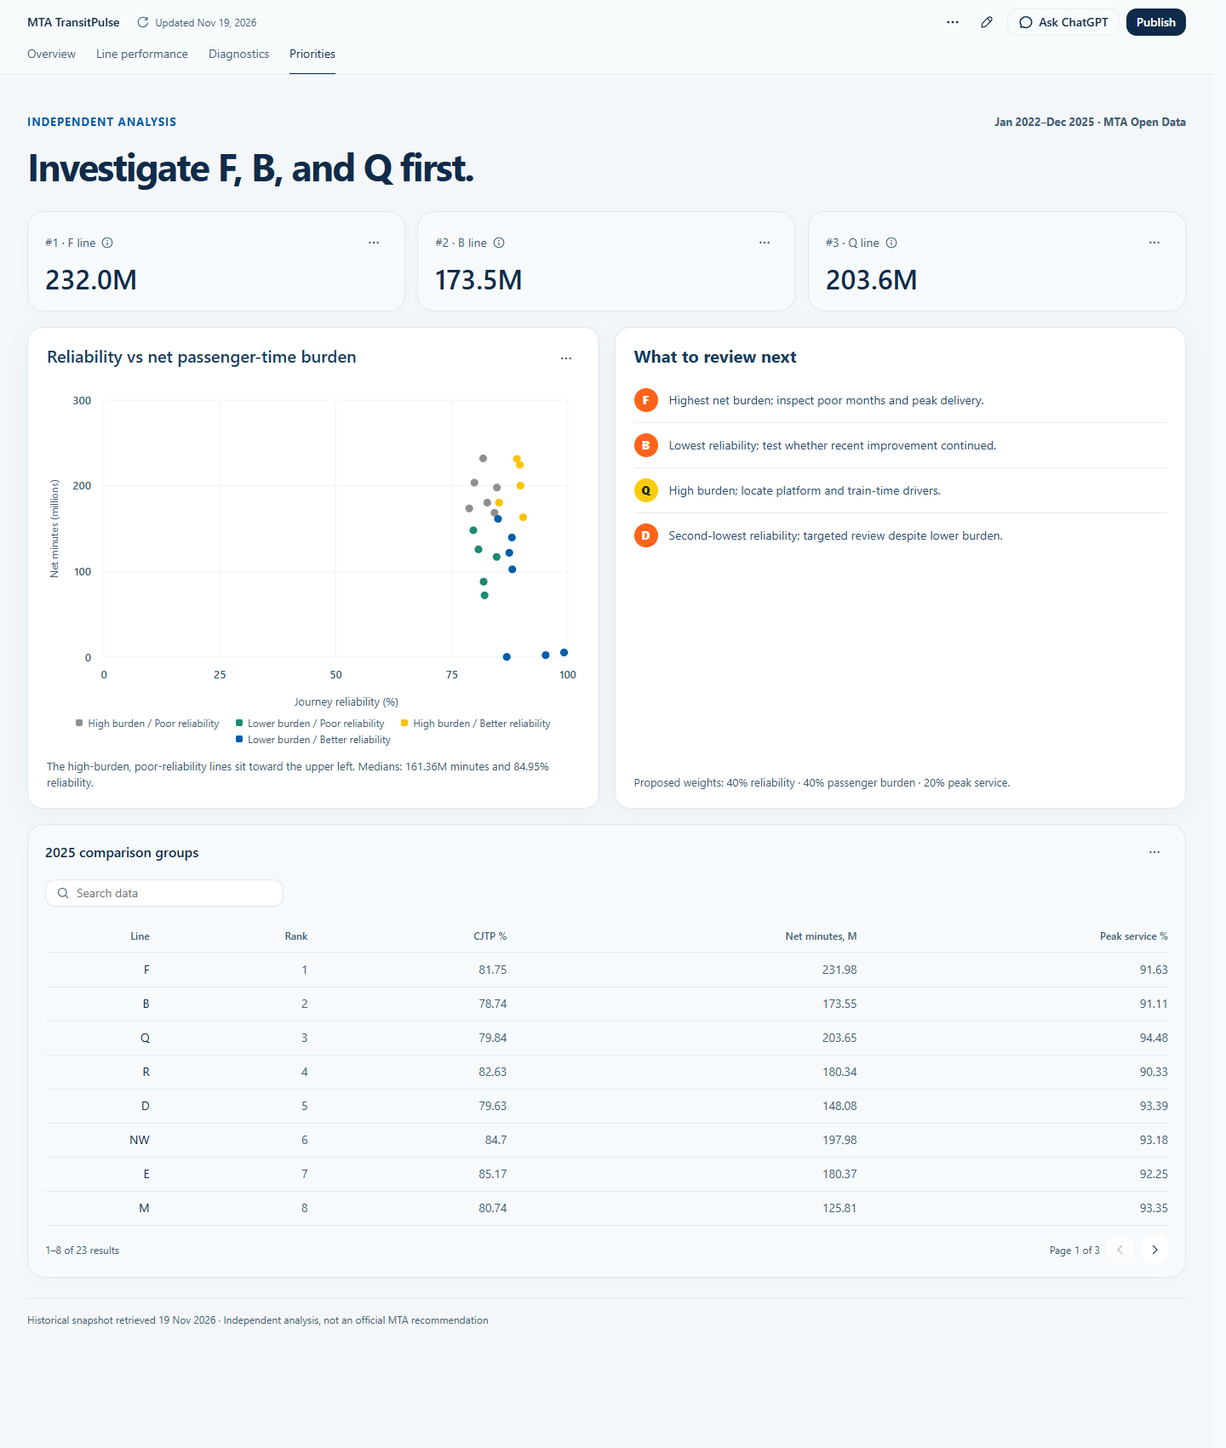
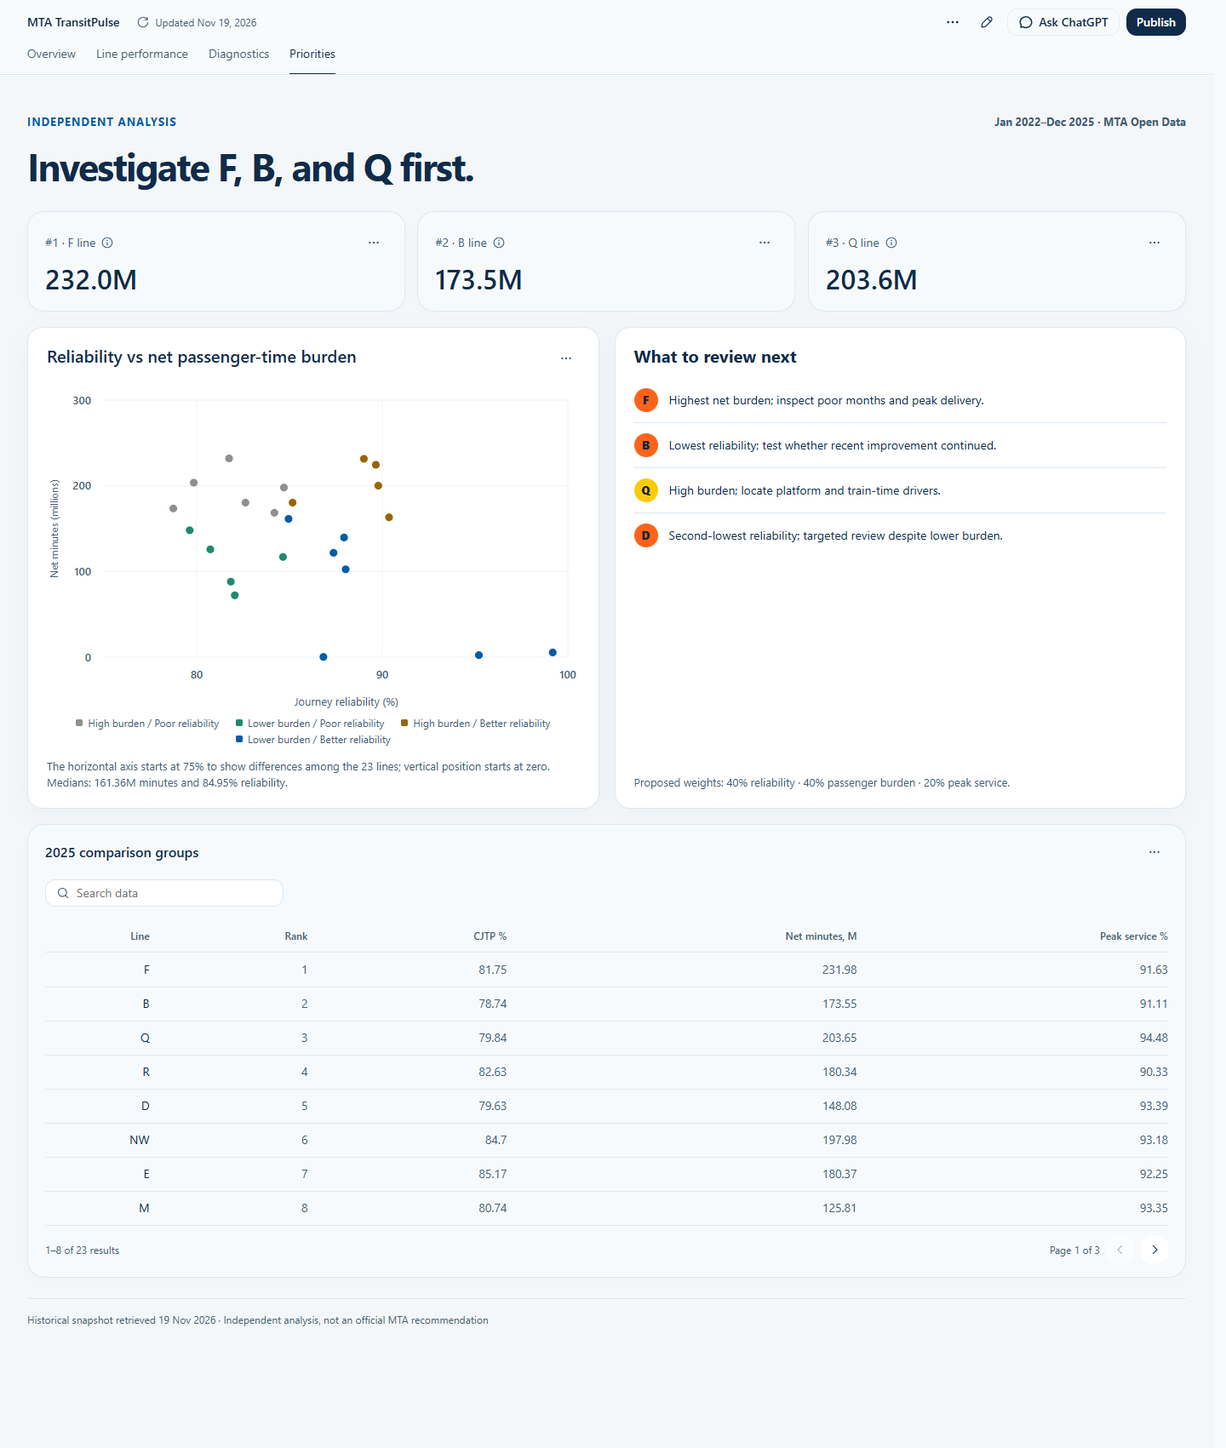
Fix dark theme contrast and refine chart scales

Changed region(s): [[0.0312, 0.5297, 0.25, 0.5608], [0.375, 0.3116, 0.4375, 0.3739]]

diff --git a/dashboards/transitpulse-web/src/content/dashboard/DashboardContent.jsx b/dashboards/transitpulse-web/src/content/dashboard/DashboardContent.jsx
@@ -12,7 +12,7 @@ function Route({ line }) {
   return <span className={`tp-route tp-route--${group}`}>{line}</span>;
 }
 function Panel({ id, queryId, title, rows, spec, height = 290, note }) {
-  const chart = spec.yDomain ? chartConfigEntries({ id, title, rows, spec })[0] : { id, title, rows, spec };
+  const chart = spec.yDomain || spec.xDomain ? chartConfigEntries({ id, title, rows, spec })[0] : { id, title, rows, spec };
   return <div className="tp-panel"><EvidenceChart {...chart} queryId={queryId} sourceRows={rows} height={height} variant="plain" />{note && <p className="tp-note">{note}</p>}</div>;
 }
 
@@ -39,7 +39,7 @@ export function DashboardContent() {
     id: "lines-history", title: `${line} journey reliability, 2022–2025`, rows: selectedHistory,
     spec: { type: "line", x: "year", y: "cjtPercent", xScale: "category",
       yDomain: lineDomain,
-      yLabel: "Journey reliability (%)", showXAxisLabel: false, colors: { cjtPercent: "#005da9" } },
+      yLabel: "Journey reliability (%)", showXAxisLabel: false, colors: { cjtPercent: "var(--chart-1)" } },
   });
   const tab = activeTabId || "overview";
   const titles = {
@@ -58,15 +58,15 @@ export function DashboardContent() {
         <MetricCard id="overview-burden" queryId="annual_system" title="2025 net additional time" value={`${(latest?.netMinutes / 1e9).toFixed(2)}B min`} sourceRows={annual} description="Signed estimate across measured weekday unlinked trips." />
       </section>
       <div className="tp-grid">
-        <Panel id="overview-trend" queryId="annual_system" title="Journey reliability rose from 83.88% to 85.40%" rows={annual} spec={{ type: "line", x: "year", y: "cjtPercent", xScale: "category", yDomain: [82, 87], yLabel: "Journey reliability (%)", showXAxisLabel: false, colors: { cjtPercent: "#005da9" } }} note="Passenger-weighted annual rate. The 42nd Street Shuttle has incomplete 2022 coverage." />
-        <Panel id="overview-priority" queryId="priority_2025" title="Proposed investigation order" rows={ranked.slice(0, 6)} spec={{ type: "horizontalBar", x: "line", y: "score", yLabel: "Priority score", showXAxisLabel: false, colors: { score: "#005da9" } }} note="F, B, Q rank 1–3. D warrants a separate reliability review. The score does not predict intervention impact." />
+        <Panel id="overview-trend" queryId="annual_system" title="Journey reliability rose from 83.88% to 85.40%" rows={annual} spec={{ type: "line", x: "year", y: "cjtPercent", xScale: "category", yDomain: [82, 87], yLabel: "Journey reliability (%)", showXAxisLabel: false, colors: { cjtPercent: "var(--chart-1)" } }} note="Passenger-weighted annual rate. The 42nd Street Shuttle has incomplete 2022 coverage." />
+        <Panel id="overview-priority" queryId="priority_2025" title="Proposed investigation order" rows={ranked.slice(0, 6)} spec={{ type: "horizontalBar", x: "line", y: "score", yLabel: "Priority score", showXAxisLabel: false, colors: { score: "var(--chart-1)" } }} note="F, B, Q rank 1–3. D warrants a separate reliability review. The score does not predict intervention impact." />
       </div>
       <div className="tp-callout"><Route line="F" /><Route line="B" /><Route line="Q" /><span>High burden and poor reliability</span><Route line="D" /><span>Separate reliability review</span></div>
     </>}
 
     {tab === "lines" && <>
       <div className="tp-grid">
-        <Panel id="lines-lowest" queryId="priority_2025" title="Lowest 2025 journey reliability" rows={weak.slice(0, 10)} height={350} spec={{ type: "horizontalBar", x: "line", y: "cjtPercent", yLabel: "Journey reliability (%)", showXAxisLabel: false, colors: { cjtPercent: "#005da9" } }} note="B is lowest at 78.74%; D is second lowest at 79.63%." />
+        <Panel id="lines-lowest" queryId="priority_2025" title="Lowest 2025 journey reliability" rows={weak.slice(0, 10)} height={350} spec={{ type: "horizontalBar", x: "line", y: "cjtPercent", yLabel: "Journey reliability (%)", showXAxisLabel: false, colors: { cjtPercent: "var(--chart-1)" } }} note="B is lowest at 78.74%; D is second lowest at 79.63%." />
         <div className="tp-panel"><div className="tp-panel__heading"><h2>Line history</h2><label>Line <select value={line} onChange={(event) => setLine(event.target.value)}>{[...priority].sort((a, b) => a.line.localeCompare(b.line)).map((row) => <option key={row.line} value={row.line}>{row.line}</option>)}</select></label></div>
           <div className="tp-line-stat"><Route line={selected?.line} /><strong>{pct(selected?.cjtPercent)}</strong><span>2025 reliability</span></div>
           <EvidenceChart {...lineChart} queryId="line_history" sourceRows={selectedHistory} height={220} variant="plain" />
@@ -77,8 +77,8 @@ export function DashboardContent() {
 
     {tab === "diagnostics" && <>
       <div className="tp-grid">
-        <Panel id="diag-categories" queryId="delay_categories_2025" title="2025 weekday delay incidents by category" rows={categories} height={330} spec={{ type: "horizontalBar", x: "category", y: "incidents", yLabel: "Incidents", showXAxisLabel: false, colors: { incidents: "#005da9" } }} note="Counts show reported workload, not exposure-adjusted risk." />
-        <Panel id="diag-service" queryId="priority_2025" title="Lowest 2025 peak service delivered" rows={service.slice(0, 10)} height={330} spec={{ type: "horizontalBar", x: "line", y: "servicePercent", yLabel: "Scheduled trains delivered (%)", showXAxisLabel: false, colors: { servicePercent: "#005da9" } }} note="Selected weekday peak timepoints only. Source ratios can exceed 100%." />
+        <Panel id="diag-categories" queryId="delay_categories_2025" title="2025 weekday delay incidents by category" rows={categories} height={330} spec={{ type: "horizontalBar", x: "category", y: "incidents", yLabel: "Incidents", showXAxisLabel: false, colors: { incidents: "var(--chart-1)" } }} note="Counts show reported workload, not exposure-adjusted risk." />
+        <Panel id="diag-service" queryId="priority_2025" title="Lowest 2025 peak service delivered" rows={service.slice(0, 10)} height={330} spec={{ type: "horizontalBar", x: "line", y: "servicePercent", yLabel: "Scheduled trains delivered (%)", showXAxisLabel: false, colors: { servicePercent: "var(--chart-1)" } }} note="Selected weekday peak timepoints only. Source ratios can exceed 100%." />
       </div>
       <div className="tp-callout"><Route line="F" /><strong>{priority.find((row) => row.line === "F")?.delayIncidents.toLocaleString("en-US")}</strong><span>weekday delay incidents</span><strong>{pct(priority.find((row) => row.line === "F")?.servicePercent)}</strong><span>peak service delivered</span></div>
       <p className="tp-note">Customer journeys, incidents, and peak service cover different hours. Co-movement is a lead for investigation, not causality.</p>
@@ -87,7 +87,7 @@ export function DashboardContent() {
     {tab === "priorities" && <>
       <section className="tp-metrics" aria-label="Priority lines">{ranked.slice(0, 3).map((row) => <MetricCard key={row.line} id={`priority-${row.line}`} queryId="priority_2025" title={`#${row.rank} · ${row.line} line`} value={mins(row.netMinutesM)} sourceRows={[row]} description={`${pct(row.cjtPercent)} reliability · rank ${row.rankBest}–${row.rankWorst} across five weight scenarios`} />)}</section>
       <div className="tp-grid">
-        <Panel id="priority-matrix" queryId="priority_2025" title="Reliability vs net passenger-time burden" rows={priority} height={350} spec={{ type: "scatter", x: "cjtPercent", y: "netMinutesM", series: "quadrant", xLabel: "Journey reliability (%)", yLabel: "Net minutes (millions)" }} note="The high-burden, poor-reliability lines sit toward the upper left. Medians: 161.36M minutes and 84.95% reliability." />
+        <Panel id="priority-matrix" queryId="priority_2025" title="Reliability vs net passenger-time burden" rows={priority} height={350} spec={{ type: "scatter", x: "cjtPercent", y: "netMinutesM", series: "quadrant", xDomain: [75, 100], xLabel: "Journey reliability (%)", yLabel: "Net minutes (millions)" }} note="The horizontal axis starts at 75% to show differences among the 23 lines; vertical position starts at zero. Medians: 161.36M minutes and 84.95% reliability." />
         <div className="tp-panel tp-priority-list"><h2>What to review next</h2>{[["F", "Highest net burden; inspect poor months and peak delivery."], ["B", "Lowest reliability; test whether recent improvement continued."], ["Q", "High burden; locate platform and train-time drivers."], ["D", "Second-lowest reliability; targeted review despite lower burden."]].map(([route, detail]) => <div className="tp-priority-item" key={route}><Route line={route} /><span>{detail}</span></div>)}<p className="tp-note">Proposed weights: 40% reliability · 40% passenger burden · 20% peak service.</p></div>
       </div>
       <DataComponent id="priority-table" queryId="priority_2025" title="2025 comparison groups" kind="table" variant="card" displayRows={ranked} sourceRows={ranked}>

diff --git a/dashboards/transitpulse-web/src/content/dashboard/dashboard.css b/dashboards/transitpulse-web/src/content/dashboard/dashboard.css
@@ -1,27 +1,27 @@
 .tp-dashboard { color: var(--text); padding: 10px 0 46px; }
 .tp-intro { margin: 10px 0 28px; }
 .tp-intro__top { display: flex; justify-content: space-between; gap: 12px; color: var(--secondary); font-size: 13px; font-weight: 650; }
-.tp-intro__top span:first-child { color: #005da9; text-transform: uppercase; letter-spacing: .08em; }
-.tp-intro h1 { max-width: 1050px; margin: 16px 0 0; color: #102b49; font-size: clamp(28px, 3.15vw, 46px); line-height: 1.12; letter-spacing: -.045em; font-weight: 750; }
+.tp-intro__top span:first-child { color: var(--accent); text-transform: uppercase; letter-spacing: .08em; }
+.tp-intro h1 { max-width: 1050px; margin: 16px 0 0; color: var(--text); font-size: clamp(28px, 3.15vw, 46px); line-height: 1.12; letter-spacing: -.045em; font-weight: 750; }
 .tp-metrics { display: grid; grid-template-columns: repeat(3, minmax(0, 1fr)); gap: 14px; margin-bottom: 18px; }
 .tp-grid { display: grid; grid-template-columns: repeat(2, minmax(0, 1fr)); gap: 18px; }
-.tp-panel { min-width: 0; padding: 20px 22px; border: 1px solid #dce7f1; border-radius: 18px; background: #fff; box-shadow: 0 8px 28px rgb(17 50 83 / 4%); }
-.tp-panel h2 { margin: 0 0 14px; color: #183b5d; font-size: 20px; line-height: 1.25; }
+.tp-panel { min-width: 0; padding: 20px 22px; border: 1px solid var(--border); border-radius: 18px; background: var(--surface); box-shadow: 0 8px 28px rgb(17 50 83 / 4%); }
+.tp-panel h2 { margin: 0 0 14px; color: var(--text); font-size: 20px; line-height: 1.25; }
 .tp-panel__heading { display: flex; align-items: center; justify-content: space-between; gap: 12px; }
 .tp-panel__heading label { white-space: nowrap; font-size: 13px; color: var(--secondary); }
-.tp-panel__heading select { margin-left: 8px; padding: 7px 10px; border: 1px solid #b9cde0; border-radius: 9px; background: #fff; color: #102b49; font: inherit; }
+.tp-panel__heading select { margin-left: 8px; padding: 7px 10px; border: 1px solid var(--border); border-radius: 9px; background: var(--control); color: var(--text); font: inherit; }
 .tp-note { margin: 12px 0 0; color: var(--secondary); font-size: 13px; line-height: 1.5; }
-.tp-callout { display: flex; flex-wrap: wrap; align-items: center; gap: 8px; margin-top: 18px; padding: 14px 18px; border-left: 4px solid #f36b21; border-radius: 8px; background: #f3f8fc; font-size: 13px; color: #294c6f; }
-.tp-callout strong { color: #005da9; font-size: 20px; margin-left: 14px; }
-.tp-route { display: inline-flex; align-items: center; justify-content: center; min-width: 28px; height: 28px; padding: 0 5px; border-radius: 50%; background: #677a8d; color: #fff; font-size: 13px; font-weight: 800; line-height: 1; }
-.tp-route--orange { background: #ff6319; }.tp-route--yellow { background: #fccc0a; color: #152536; }.tp-route--blue { background: #0039a6; }.tp-route--number { background: #ee352e; }
+.tp-callout { display: flex; flex-wrap: wrap; align-items: center; gap: 8px; margin-top: 18px; padding: 14px 18px; border-left: 4px solid #f36b21; border-radius: 8px; background: color-mix(in srgb, var(--chart-1) 5%, var(--surface)); font-size: 13px; color: var(--text); }
+.tp-callout strong { color: var(--accent); font-size: 20px; margin-left: 14px; }
+.tp-route { display: inline-flex; align-items: center; justify-content: center; min-width: 28px; height: 28px; padding: 0 5px; border-radius: 50%; background: #586d80; color: #fff; font-size: 13px; font-weight: 800; line-height: 1; }
+.tp-route--orange { background: #ff6319; color: #152536; }.tp-route--yellow { background: #fccc0a; color: #152536; }.tp-route--blue { background: #0039a6; }.tp-route--number { background: #d52b25; }
 .tp-line-stat { display: flex; align-items: center; gap: 10px; margin: 16px 0; color: var(--secondary); font-size: 13px; }
-.tp-line-stat strong { color: #102b49; font-size: 30px; letter-spacing: -.04em; }
+.tp-line-stat strong { color: var(--text); font-size: 30px; letter-spacing: -.04em; }
 .tp-priority-list { display: flex; flex-direction: column; }
-.tp-priority-item { display: flex; align-items: center; gap: 13px; padding: 12px 0; border-bottom: 1px solid #e4edf4; color: #294c6f; font-size: 14px; line-height: 1.4; }
+.tp-priority-item { display: flex; align-items: center; gap: 13px; padding: 12px 0; border-bottom: 1px solid var(--border); color: var(--text); font-size: 14px; line-height: 1.4; }
 .tp-priority-item:last-of-type { border-bottom: 0; }.tp-priority-list .tp-note { margin-top: auto; padding-top: 12px; }
 .tp-dashboard [data-component-id="priority-table"] { margin-top: 18px; }
-.tp-footer { margin-top: 24px; padding-top: 15px; border-top: 1px solid #dce7f1; color: var(--secondary); font-size: 12px; line-height: 1.5; }
+.tp-footer { margin-top: 24px; padding-top: 15px; border-top: 1px solid var(--border); color: var(--secondary); font-size: 12px; line-height: 1.5; }
 .tp-dashboard .recharts-cartesian-axis-tick-value,
 .tp-dashboard .recharts-legend-item-text { font-size: 13px; font-weight: 500; }
 .tp-dashboard .chart-axis-label { font-size: 13px; }

diff --git a/dashboards/transitpulse-web/src/theme.css b/dashboards/transitpulse-web/src/theme.css
@@ -23,7 +23,7 @@
   --chart-3: light-dark(#1d8a71, #5dc4ad);
   --chart-4: light-dark(#fccc0a, #f8d95f);
   --chart-5: light-dark(#ff66ad, #ff8cc1);
-  --chart-6: light-dark(#ffc300, #ffd240);
+  --chart-6: light-dark(#9a6500, #ffd240);
   --chart-7: light-dark(#fa423e, #ff6764);
   --chart-8: light-dark(#8f8f8f, #afafaf);
   --chart-neutral-fill: color-mix(in srgb, var(--text) 3%, var(--surface));

diff --git a/src/capture_web_dashboard.py b/src/capture_web_dashboard.py
@@ -3,6 +3,7 @@
 from __future__ import annotations
 
 import os
+import re
 from pathlib import Path
 
 from playwright.sync_api import sync_playwright
@@ -25,9 +26,40 @@ def check(page, name: str) -> None:
     for error in ("Chart configuration error", "Something went wrong", "NaN", "undefined"):
         if error in body:
             raise AssertionError(f"{name}: found {error!r} in rendered page")
-    minimum = 1 if name == "Priorities" else 2
+    minimum = 1 if name.endswith("Priorities") else 2
     if page.locator(".recharts-wrapper svg").count() < minimum:
         raise AssertionError(f"{name}: fewer than {minimum} rendered charts")
+
+
+def contrast(first: str, second: str) -> float:
+    def luminance(color: str) -> float:
+        channels = [int(value) / 255 for value in re.findall(r"\d+", color)[:3]]
+        linear = [value / 12.92 if value <= 0.04045 else ((value + 0.055) / 1.055) ** 2.4 for value in channels]
+        return sum(value * weight for value, weight in zip(linear, (0.2126, 0.7152, 0.0722)))
+
+    darker, lighter = sorted((luminance(first), luminance(second)))
+    return (lighter + 0.05) / (darker + 0.05)
+
+
+def check_text_contrast(page, name: str) -> None:
+    colors = page.evaluate("""() => {
+      const style = (selector) => getComputedStyle(document.querySelector(selector));
+      return {
+        background: style('body').backgroundColor,
+        heading: style('.tp-intro h1').color,
+        panel: style('.tp-panel').backgroundColor,
+        tick: style('.recharts-cartesian-axis-tick-value').fill,
+        note: style('.tp-panel .tp-note').color,
+      };
+    }""")
+    for label, foreground, background in (
+        ("heading", colors["heading"], colors["background"]),
+        ("chart tick", colors["tick"], colors["panel"]),
+        ("chart note", colors["note"], colors["panel"]),
+    ):
+        ratio = contrast(foreground, background)
+        if ratio < 4.5:
+            raise AssertionError(f"{name}: {label} contrast is only {ratio:.2f}:1")
 
 
 def main() -> None:
@@ -40,6 +72,7 @@ def main() -> None:
             desktop.get_by_text(label, exact=True).first.click()
             desktop.wait_for_timeout(500)
             check(desktop, label)
+            check_text_contrast(desktop, f"Light {label}")
             if label == "Overview":
                 for value in ("85.40%", "+1.52 pp", "3.24B min"):
                     if value not in desktop.locator("body").inner_text():
@@ -51,6 +84,15 @@ def main() -> None:
                 desktop.locator(".tp-panel__heading select").select_option("F")
             desktop.screenshot(path=str(OUTPUT / f"{slug}.png"), full_page=True)
             print(f"Captured {slug}.png")
+        dark = browser.new_page(viewport={"width": 1440, "height": 900}, device_scale_factor=1, color_scheme="dark")
+        dark.goto(URL, wait_until="networkidle")
+        for label, slug in VIEWS:
+            dark.get_by_text(label, exact=True).first.click()
+            dark.wait_for_timeout(500)
+            check(dark, f"Dark {label}")
+            check_text_contrast(dark, f"Dark {label}")
+            dark.screenshot(path=str(OUTPUT / f"{slug}-dark.png"), full_page=True)
+            print(f"Captured {slug}-dark.png")
         mobile = browser.new_page(viewport={"width": 390, "height": 844}, device_scale_factor=1)
         mobile.goto(URL, wait_until="networkidle")
         check(mobile, "Mobile overview")
@@ -58,6 +100,14 @@ def main() -> None:
             raise AssertionError("Mobile overview has horizontal overflow")
         mobile.screenshot(path=str(OUTPUT / "overview-mobile.png"), full_page=True)
         print("Captured overview-mobile.png")
+        dark_mobile = browser.new_page(viewport={"width": 390, "height": 844}, device_scale_factor=1, color_scheme="dark")
+        dark_mobile.goto(URL, wait_until="networkidle")
+        check(dark_mobile, "Dark mobile overview")
+        check_text_contrast(dark_mobile, "Dark mobile overview")
+        if dark_mobile.locator("body").evaluate("element => element.scrollWidth > window.innerWidth + 2"):
+            raise AssertionError("Dark mobile overview has horizontal overflow")
+        dark_mobile.screenshot(path=str(OUTPUT / "overview-mobile-dark.png"), full_page=True)
+        print("Captured overview-mobile-dark.png")
         browser.close()
 
 

diff --git a/README.md b/README.md
@@ -6,7 +6,7 @@
 
 [![TransitPulse browser dashboard overview](dashboards/screenshots/web/overview.png)](https://dhruvshah-dev.github.io/mta-transitpulse/)
 
-The browser dashboard has four views: [Overview](dashboards/screenshots/web/overview.png), [Line performance](dashboards/screenshots/web/line-performance.png), [Diagnostics](dashboards/screenshots/web/diagnostics.png), and [Priorities](dashboards/screenshots/web/priorities.png). A [mobile capture](dashboards/screenshots/web/overview-mobile.png) shows the responsive opening view.
+The browser dashboard has four views: [Overview](dashboards/screenshots/web/overview.png), [Line performance](dashboards/screenshots/web/line-performance.png), [Diagnostics](dashboards/screenshots/web/diagnostics.png), and [Priorities](dashboards/screenshots/web/priorities.png). [Light](dashboards/screenshots/web/overview-mobile.png) and [dark](dashboards/screenshots/web/overview-mobile-dark.png) mobile captures show the responsive opening view. The [dark-theme Overview](dashboards/screenshots/web/overview-dark.png), [Line performance](dashboards/screenshots/web/line-performance-dark.png), [Diagnostics](dashboards/screenshots/web/diagnostics-dark.png), and [Priorities](dashboards/screenshots/web/priorities-dark.png) captures document the alternate theme.
 
 ## The decision in three findings
 
@@ -34,6 +34,8 @@ The browser dashboard is built from the checked 2022–2025 analysis outputs and
 
 The dashboard follows Cole Nussbaumer Knaflic's *[Storytelling with Data](https://www.storytellingwithdata.com/book/downloads)* approach: lead with the decision and takeaway, choose familiar comparisons, remove visual clutter, and use emphasis sparingly. The chart titles and short notes distinguish observed customer outcomes from proposed investigation priorities.
 
+Chart review: line charts show the 2022–2025 time trend; sorted horizontal bars show ordered line and incident comparisons from zero; and the scatterplot shows how reliability and passenger-time burden vary together. Its reliability axis begins at 75% to make the observed 78.74%–99.18% range legible, with the nonzero start stated beside the chart. The shortlist and comparison table keep exact values and line identities available without relying on color or hover.
+
 The customer metric covers weekday estimated unlinked train trips from 6 a.m. to 11 p.m. Incident counts cover all weekday hours, while Service Delivered covers selected peaks. A line-month association is diagnostic evidence, not a causal estimate. Missing incident records remain missing; the separate major-incident source is never added to delay incidents. [KPI definitions](reports/KPI_DEFINITIONS.md), [limitations](reports/ANALYTICAL_LIMITATIONS.md), and [priority method](reports/PRIORITIZATION_METHOD.md) explain the rules.
 
 ## Run the browser dashboard
@@ -47,7 +49,7 @@ npm.cmd run build
 python -m http.server 4173 --bind 127.0.0.1 --directory dist
 ```
 
-Open `http://127.0.0.1:4173/`. From the repository root, `python src/build_web_dashboard_data.py` regenerates the web snapshot and updates the app's reviewed data from the committed analysis files. Rebuild the app after that command. To regenerate the five screenshots, install Python Playwright (`python -m pip install playwright`), provide a local Chrome installation, and run `python src/capture_web_dashboard.py` while the local server is running. The screenshot script checks the headline KPIs, route selector, chart rendering, and mobile overflow.
+Open `http://127.0.0.1:4173/`. From the repository root, `python src/build_web_dashboard_data.py` regenerates the web snapshot and updates the app's reviewed data from the committed analysis files. Rebuild the app after that command. To regenerate the ten screenshots, install Python Playwright (`python -m pip install playwright`), provide a local Chrome installation, and run `python src/capture_web_dashboard.py` while the local server is running. The screenshot script checks the headline KPIs, route selector, chart rendering, light/dark chart-text contrast, and mobile overflow.
 
 GitHub Pages builds the same app through [the deployment workflow](.github/workflows/pages.yml). The published page is a historical snapshot and does not refresh when the MTA portal changes.
 
